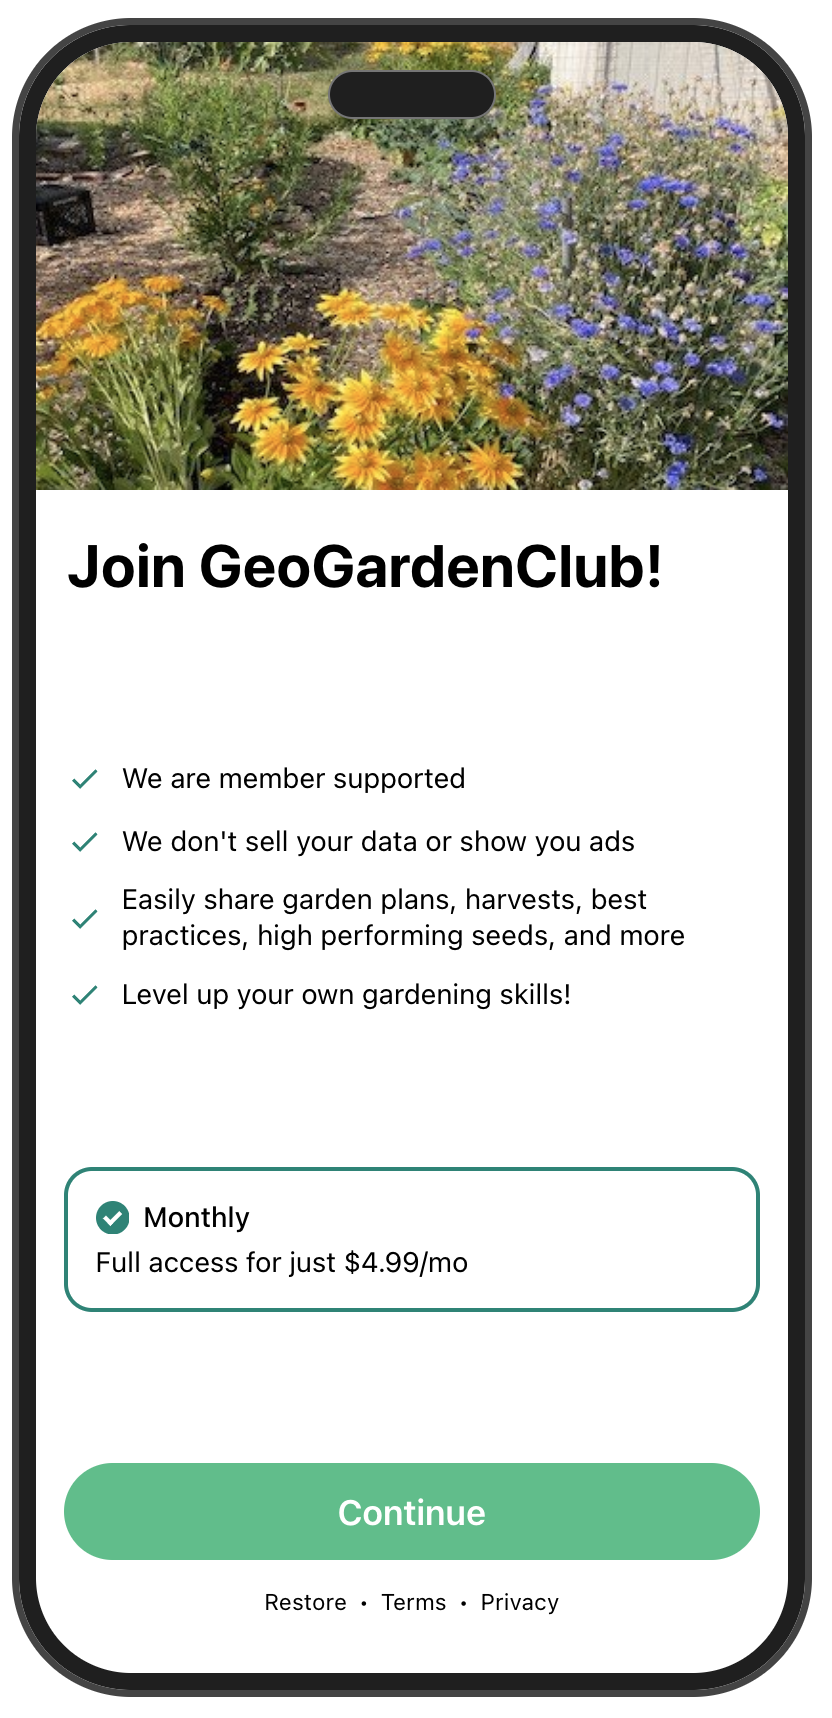
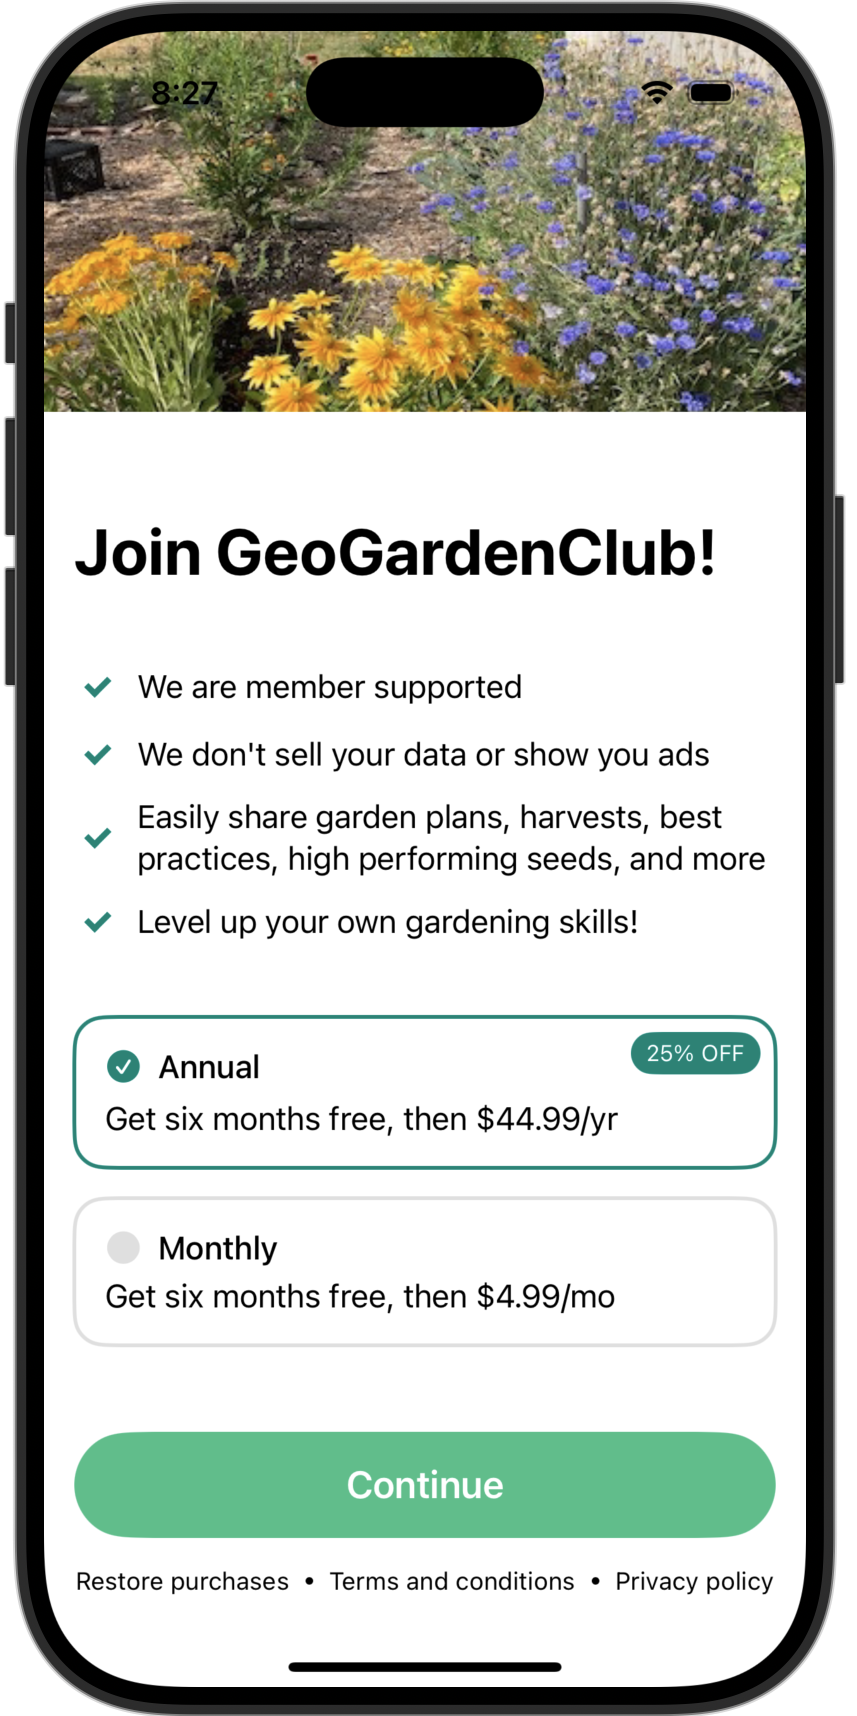
Updates to subscriptions

diff --git a/docs/user-guide/get-started/subscription.md b/docs/user-guide/get-started/subscription.md
@@ -3,21 +3,34 @@ sidebar_position: 1
 hide_table_of_contents: true
 ---
 
-# Subscription
+# Subscriptions
 
-:::tip Step 4: Confirm your subscription
+:::tip Step 4: Select your subscription
 :::
 
-Before you can start to use the services provided by GeoGardenClub, you must subscribe.  The first time you sign in to GeoGardenClub, after completing your profile, you will be taken to a screen similar to the following in order to accept the terms of a subscription: 
+Before you can start to use the services provided by GeoGardenClub, you must become a subscriber.  The first time you sign in to GeoGardenClub, after completing your profile, you will be taken to a screen similar to the following in order to accept the terms of either our annual or monthly subscription plan: 
 
 <img width="300" src="/img/user-guide/subscription.png"/>
 
 :::info Why join GGC?
 GeoGardenClub is supported entirely by its members, and we rely entirely on subscription revenue to support the services we offer. We are an independent company, we are not funded by seed companies or other companies in the gardening industry, we do not show advertisements in the app, and we will never sell your data. 
 
-Our mission is to improve your gardening productivity so much that you actually save money by using GGC.
+Our goal is to improve your gardening productivity so much that you actually save money by using GGC.
 
-All GGC subscriptions come with a free introductory period so that you can experience membership and decide if GGC is for you. If it isn't, then you can cancel your subscription any time before the end of the introductory period and not be charged.
+All GGC subscription plans come with a free introductory period so that you can experience membership and decide if GGC is for you. If it isn't, then you can cancel your subscription any time before the end of the introductory period and not be charged.
 :::
 
 Once you have accepted the subscription, after clicking through a short sequence of onboarding screens, you will arrive at your Home screen where you can define your first garden!
+
+## Managing your subscription plan
+
+You can always change from one subscription plan to another. In iOS, for example, you can go to Settings, click on your user account name,  select Subscriptions, and then select GeoGardenClub to see your current subscription plan and status: 
+
+<img width="300" src="/img/user-guide/subscription-current.jpeg"/>
+
+Then click on "See All Plans" to see the available plans:
+
+<img width="300" src="/img/user-guide/subscription-available-plans.jpeg"/>
+
+Note that if you switch to a different plan during your free trial period, you will lose the remainder of your free trial and will be billed immediately.
+
